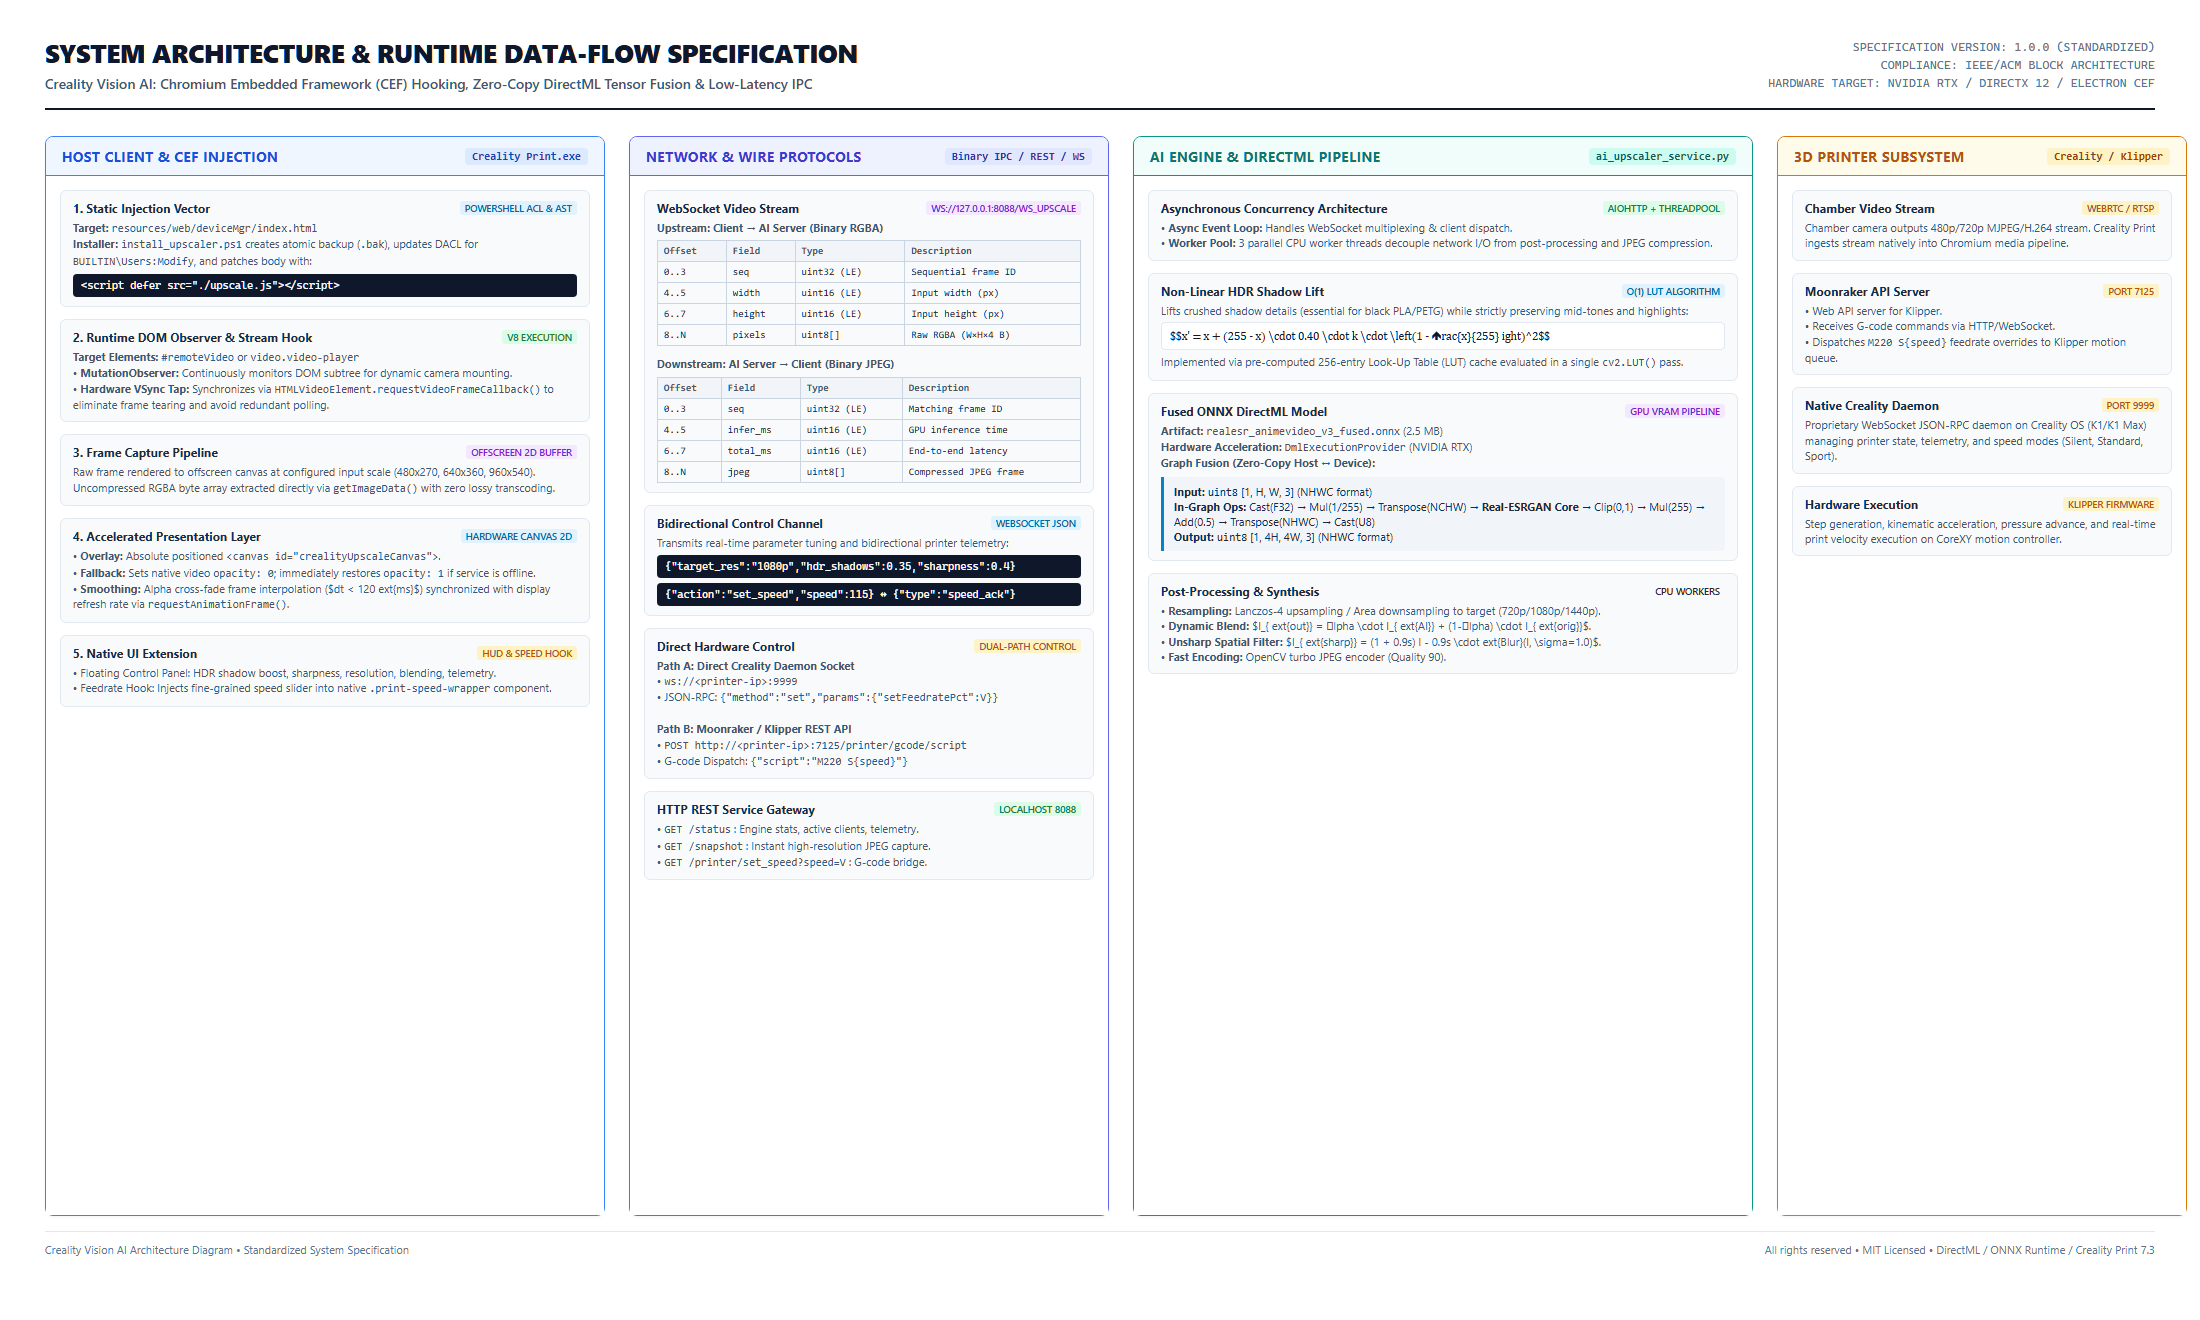
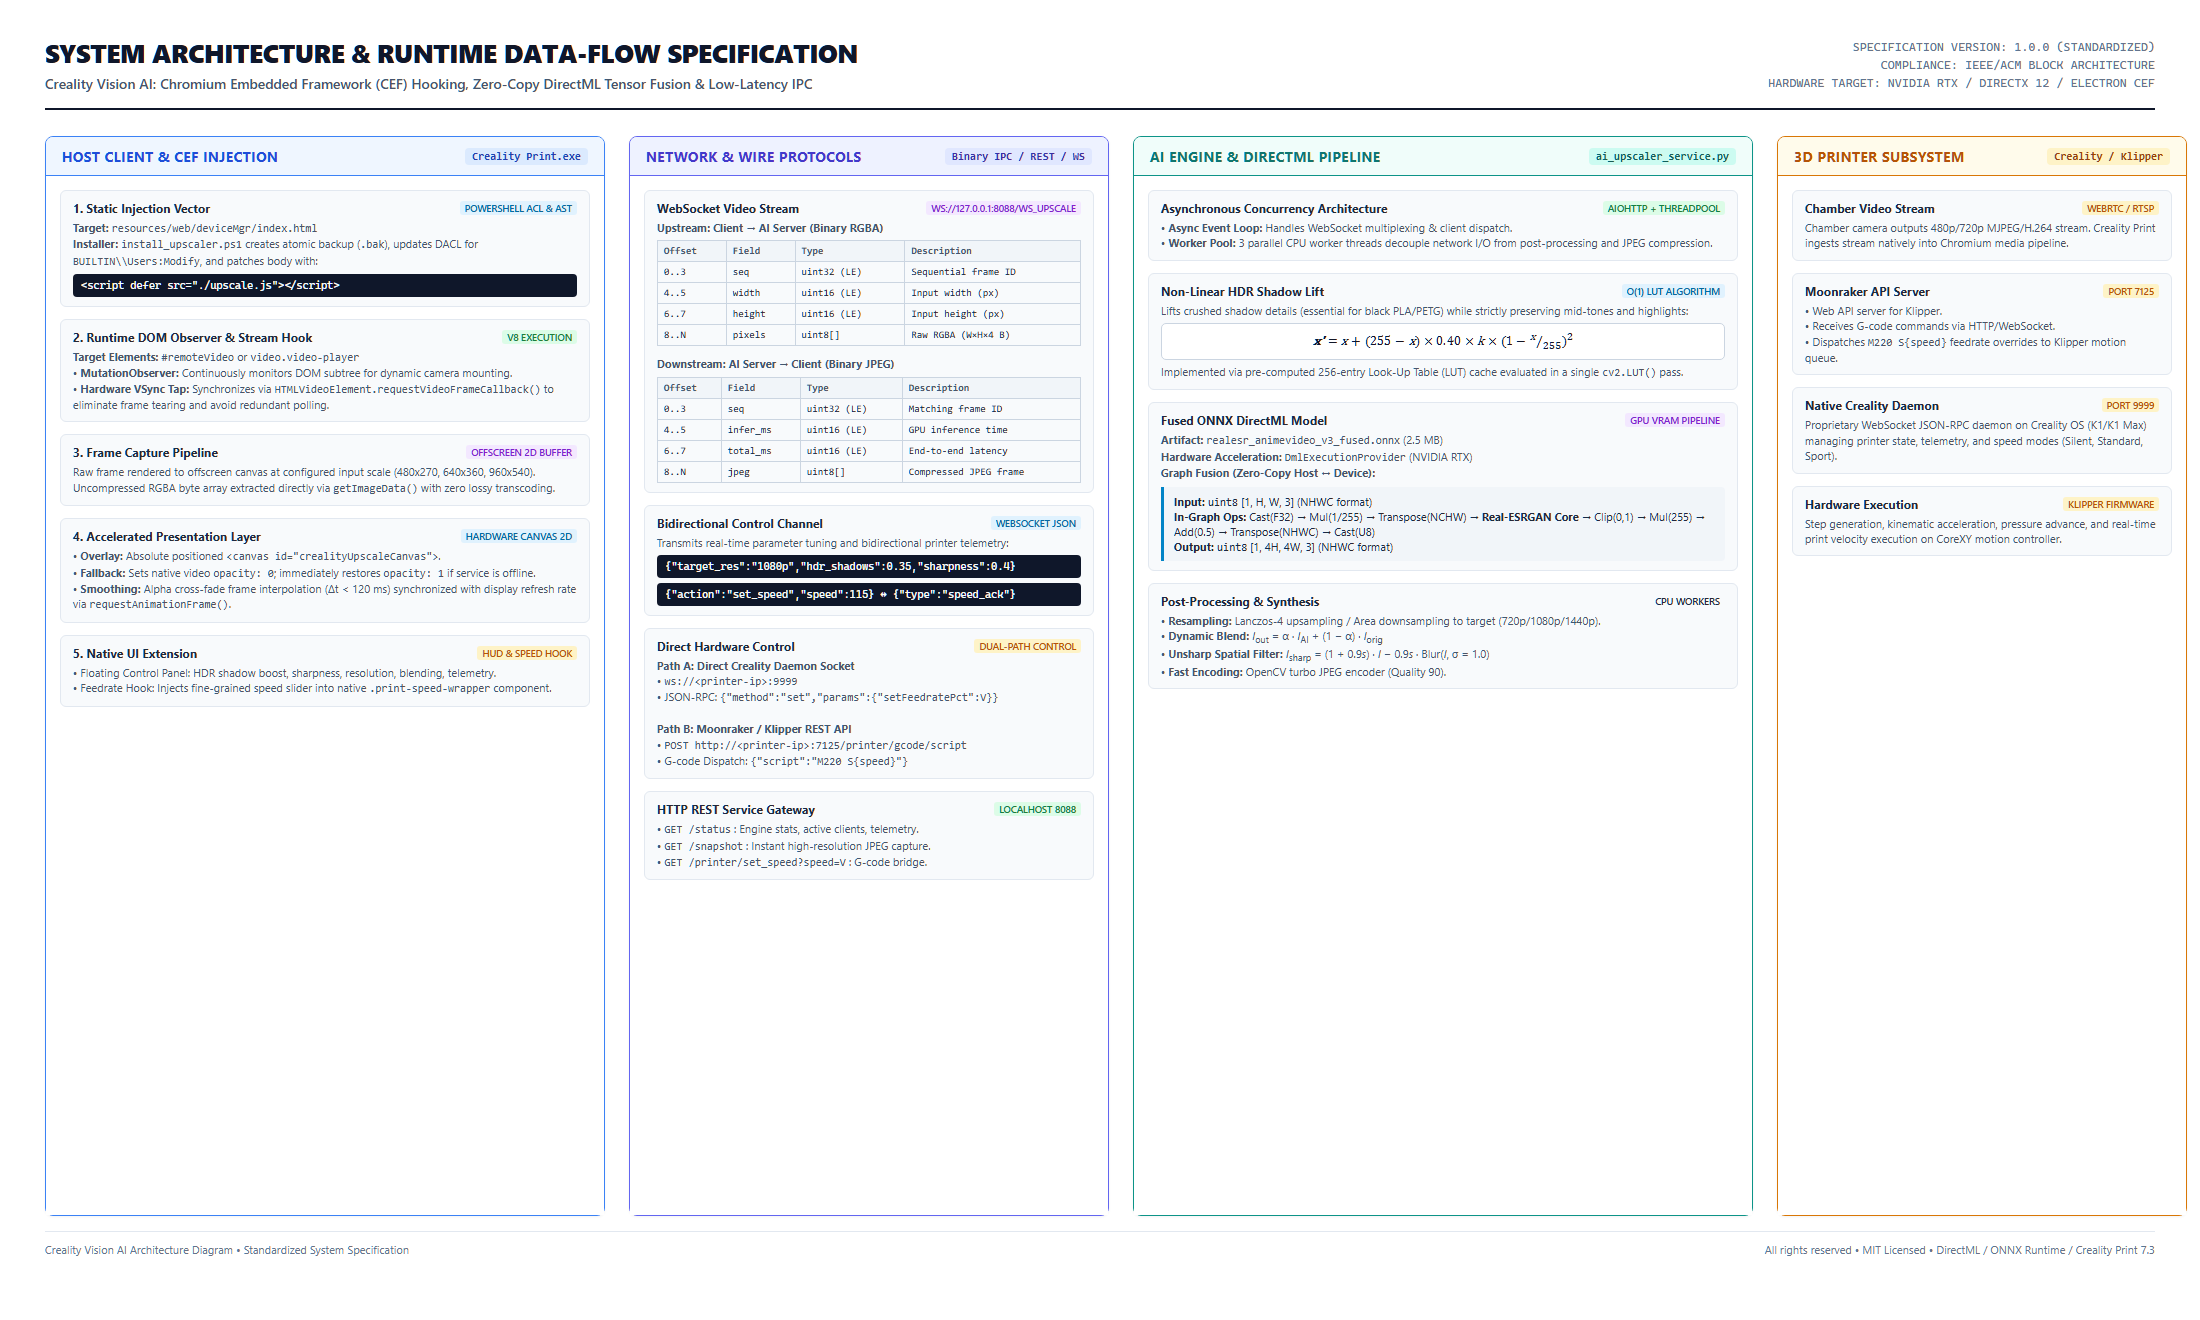
Fix formula rendering and typography in architecture diagram

diff --git a/create_architecture_diagram.py b/create_architecture_diagram.py
@@ -8,7 +8,7 @@ import os
 import subprocess
 from PIL import Image
 
-DIAGRAM_HTML = """<!DOCTYPE html>
+DIAGRAM_HTML = r"""<!DOCTYPE html>
 <html lang="en">
 <head>
 <meta charset="UTF-8">
@@ -197,14 +197,16 @@ DIAGRAM_HTML = """<!DOCTYPE html>
     border-radius: 0 4px 4px 0;
   }
   .math-box {
-    font-family: "Cambria Math", "Times New Roman", serif;
-    font-size: 11.5px;
+    font-family: "Cambria Math", "Georgia", "Times New Roman", serif;
+    font-size: 13px;
     background: #ffffff;
-    border: 1px solid #e2e8f0;
-    padding: 5px 8px;
-    border-radius: 4px;
+    border: 1px solid #cbd5e1;
+    padding: 7px 10px;
+    border-radius: 5px;
     color: #0f172a;
-    margin-top: 4px;
+    margin-top: 5px;
+    text-align: center;
+    letter-spacing: 0.3px;
   }
   .packet-table {
     width: 100%;
@@ -315,7 +317,7 @@ DIAGRAM_HTML = """<!DOCTYPE html>
           <div class="node-desc">
             • <b>Overlay:</b> Absolute positioned <code>&lt;canvas id="crealityUpscaleCanvas"&gt;</code>.<br>
             • <b>Fallback:</b> Sets native video <code>opacity: 0</code>; immediately restores <code>opacity: 1</code> if service is offline.<br>
-            • <b>Smoothing:</b> Alpha cross-fade frame interpolation ($dt &lt; 120\text{ms}$) synchronized with display refresh rate via <code>requestAnimationFrame()</code>.
+            • <b>Smoothing:</b> Alpha cross-fade frame interpolation (&Delta;t &lt; 120 ms) synchronized with display refresh rate via <code>requestAnimationFrame()</code>.
           </div>
         </div>
 
@@ -435,7 +437,7 @@ DIAGRAM_HTML = """<!DOCTYPE html>
             Lifts crushed shadow details (essential for black PLA/PETG) while strictly preserving mid-tones and highlights:
           </div>
           <div class="math-box">
-            $$x' = x + (255 - x) \cdot 0.40 \cdot k \cdot \left(1 - \frac{x}{255}\right)^2$$
+            <b><i>x'</i></b> = <i>x</i> + (255 &minus; <i>x</i>) &times; 0.40 &times; <i>k</i> &times; (1 &minus; <sup><i>x</i></sup>&frasl;<sub>255</sub>)<sup>2</sup>
           </div>
           <div class="node-desc" style="margin-top: 4px;">
             Implemented via pre-computed 256-entry Look-Up Table (LUT) cache evaluated in a single <code>cv2.LUT()</code> pass.
@@ -466,8 +468,8 @@ DIAGRAM_HTML = """<!DOCTYPE html>
           </div>
           <div class="node-desc">
             • <b>Resampling:</b> Lanczos-4 upsampling / Area downsampling to target (720p/1080p/1440p).<br>
-            • <b>Dynamic Blend:</b> $I_{\text{out}} = \alpha \cdot I_{\text{AI}} + (1-\alpha) \cdot I_{\text{orig}}$.<br>
-            • <b>Unsharp Spatial Filter:</b> $I_{\text{sharp}} = (1 + 0.9s) I - 0.9s \cdot \text{Blur}(I, \sigma=1.0)$.<br>
+            • <b>Dynamic Blend:</b> <i>I</i><sub>out</sub> = &alpha; &middot; <i>I</i><sub>AI</sub> + (1 &minus; &alpha;) &middot; <i>I</i><sub>orig</sub><br>
+            • <b>Unsharp Spatial Filter:</b> <i>I</i><sub>sharp</sub> = (1 + 0.9<i>s</i>) &middot; <i>I</i> &minus; 0.9<i>s</i> &middot; Blur(<i>I</i>, &sigma; = 1.0)<br>
             • <b>Fast Encoding:</b> OpenCV turbo JPEG encoder (Quality 90).
           </div>
         </div>
